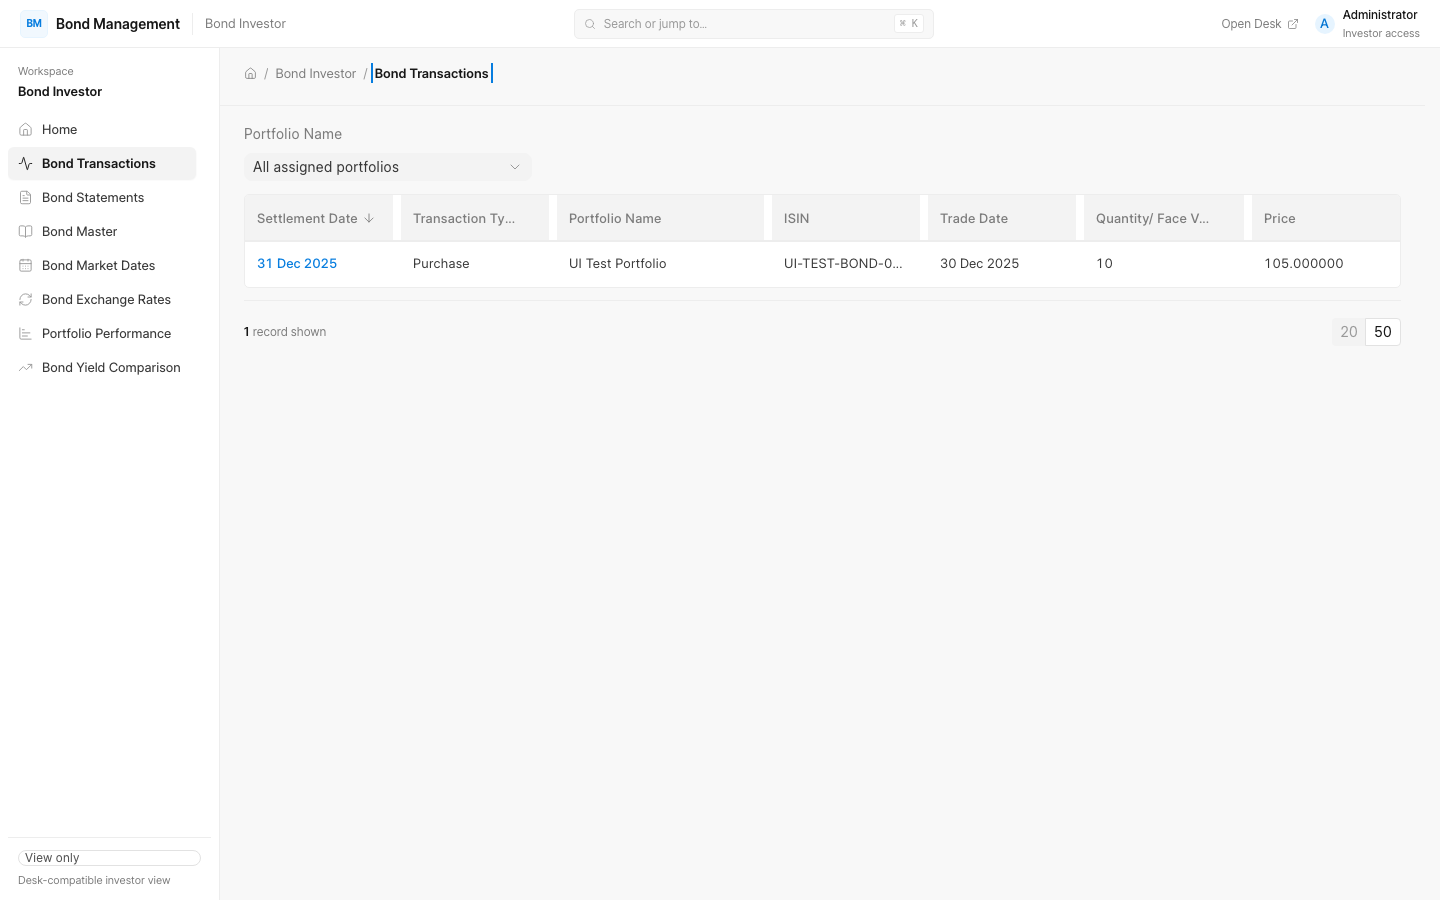
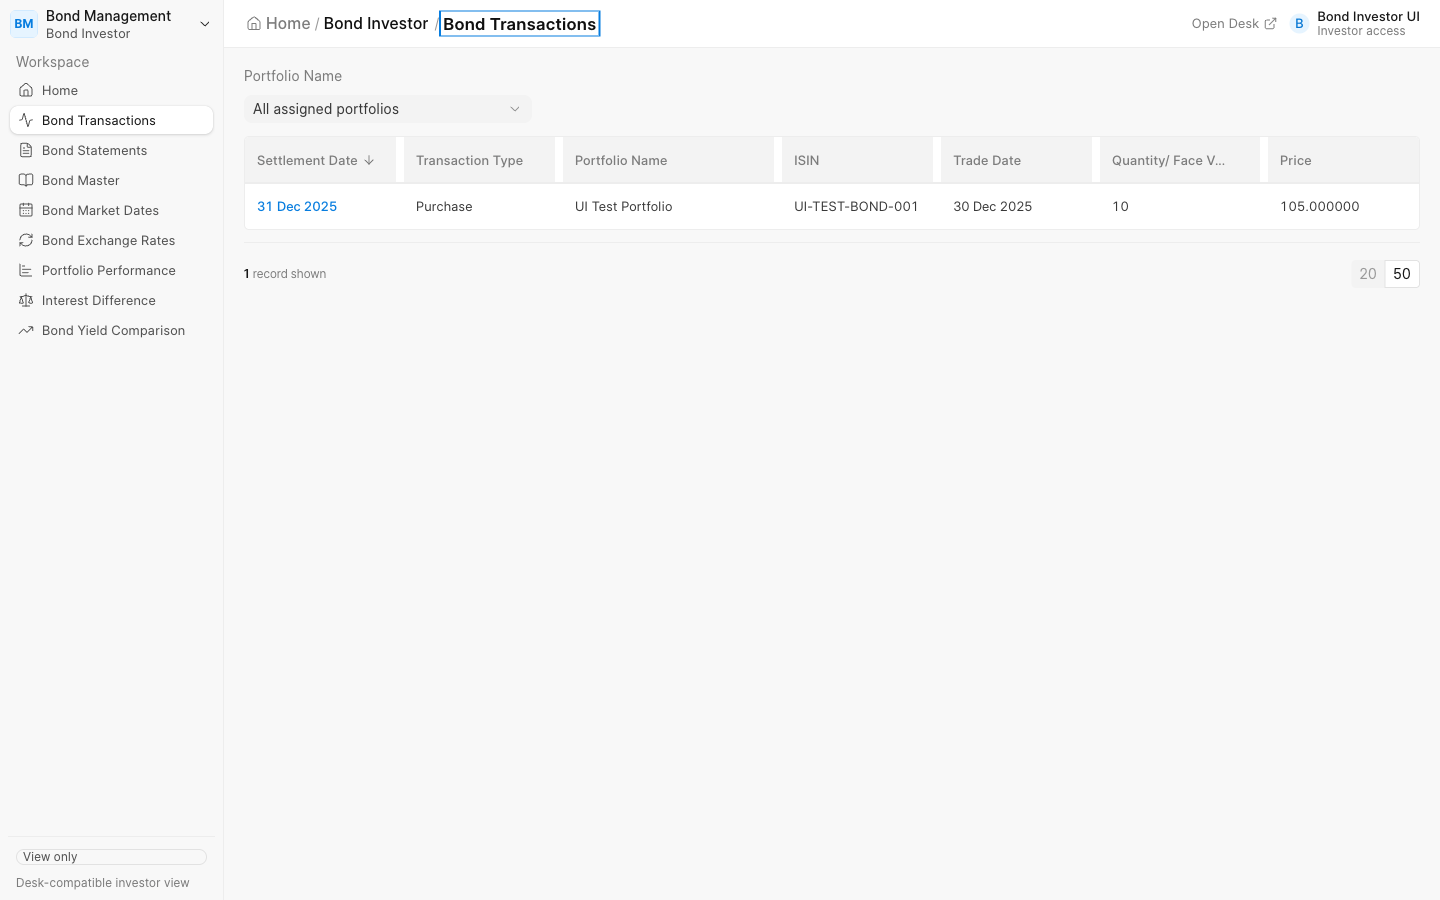
docs: add interest difference report screenshots

diff --git a/README.md b/README.md
@@ -19,7 +19,7 @@ Financial calculations and permissions are enforced on the server. Uploaded stat
 | Statements           | Extract statement identity, holdings, prices, and exchange rates from private PDFs; reconcile statement quantities with calculated portfolio positions; generate a reconciliation report. | Bond Statement, Bond Statement Details                     |
 | Market data          | Maintain dated market prices, principal factors, weighted repayment dates, future XIRR values, and yield-curve data.                                                                      | Bond Market Date, Bond Market Prices                       |
 | Exchange rates       | Store statement-sourced and manually maintained currency rates, including reverse rates.                                                                                                  | Bond Exchange Rate                                         |
-| Analytics            | Review portfolio value, proceeds, gains, past and future XIRR, and historical stored bond yields.                                                                                         | Portfolio Performance, Bond Yield Comparison               |
+| Analytics            | Review portfolio value, proceeds, gains, past and future XIRR, historical stored bond yields, and settlement interest differences.                                                        | Portfolio Performance, Interest Difference, Bond Yield Comparison |
 
 The normal operating flow is:
 
@@ -47,6 +47,7 @@ Available investor surfaces:
 - Bond Market Dates: dated market prices and yield-curve details.
 - Bond Exchange Rates: dated currency-rate history.
 - Portfolio Performance: valuation-date portfolio values, gains, native/reporting-currency XIRR, and copyable cash flows.
+- Interest Difference: transaction-level comparison of calculated and charged interest, investor gain or loss, and equivalent difference days with currency totals.
 - Bond Yield Comparison: date-range comparison of persisted Future XIRR values with currency-aware chart series and audit-data export.
 
 Access is controlled by the existing Frappe roles and portfolio permissions:
@@ -61,6 +62,8 @@ These screenshots use synthetic records from the local `test_site`; they do not 
 
 ![Permission-scoped bond transactions](docs/screenshots/investor-transactions.png)
 
+![Interest Difference report with transaction and currency totals](docs/screenshots/investor-interest-difference.png)
+
 ![Historical Future XIRR comparison](docs/screenshots/investor-yield-comparison.png)
 
 ## Internal Desk workspace
@@ -73,6 +76,7 @@ Internal users work from the **Bond Investor** workspace at `/desk/bond-investor
 - Bond Market Dates
 - Bond Exchange Rates
 - Portfolio Performance
+- Interest Difference
 - Bond Yield Comparison
 
 The Desk workflow remains the source for financial mutations, attachment parsing, reconciliation, and market-data maintenance. The investor application presents the server-authoritative result of those workflows.
@@ -119,7 +123,10 @@ yarn typecheck
 
 The frontend source is under [`frontend/`](frontend/). The Python controllers, reports, APIs, utilities, DocTypes, and tests are under [`bond_management/bond_management/`](bond_management/bond_management/).
 
-For local Frappe development, use `dev.local` for interactive work and `test_site` for automated tests. The frontend dev server can be started with:
+For local Frappe development, use the existing configured bench and keep all
+sites under it. Use `dev.local` for interactive work and reuse `test_site` for
+automated tests. Do not create temporary or copied bench directories. Start
+the frontend dev server with:
 
 ```bash
 yarn dev
